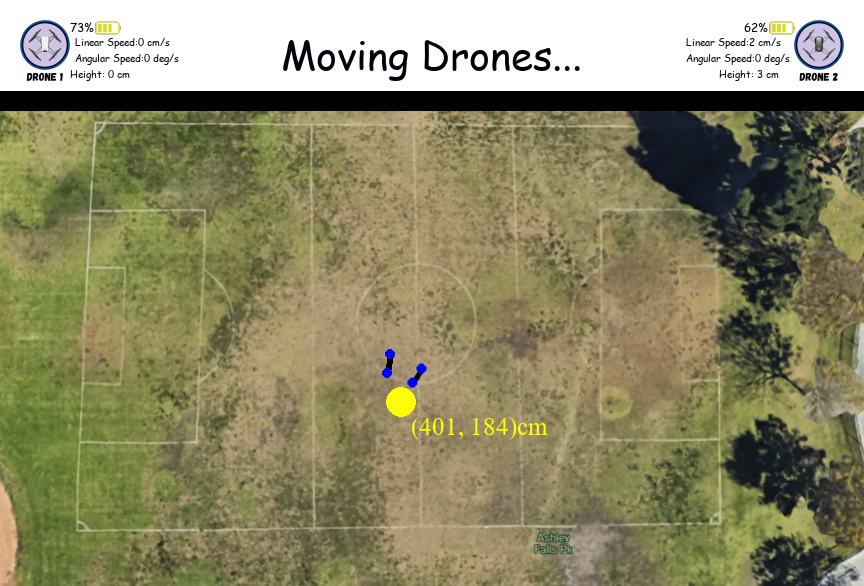
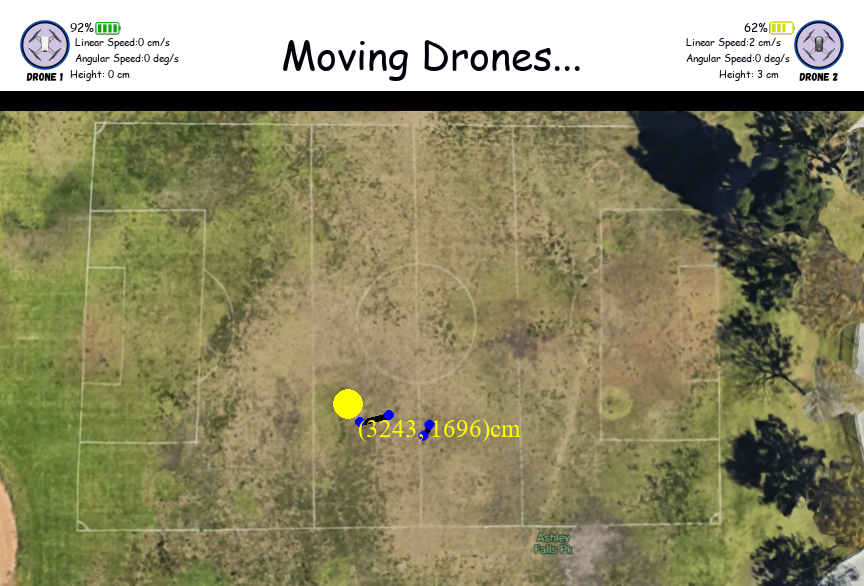
s

Changed region(s): [[0.375, 0.5836, 0.625, 0.7679], [0.0625, 0.0307, 0.1562, 0.0614]]

diff --git a/singledronewmap.py b/singledronewmap.py
@@ -151,13 +151,13 @@ def add_route():
             run_command(f'sudo ip route add {TELLO_IP} via {WIFI_ADAPTER_2_IP} dev wlan1')
 
 # # Connect to Tello networks
-# connect_wifi(WIFI_1, "TELLO-D06F9F")
+connect_wifi(WIFI_1, "TELLO-D06F9F")
 
 # # Assign static IPs
-# set_static_ip(WIFI_1, WIFI_ADAPTER_1_IP)
+set_static_ip(WIFI_1, WIFI_ADAPTER_1_IP)
 
 # # Add route if necessary
-# add_route()
+add_route()
 
 #proxy_server = VideoProxyServer(drone_ips, server_ip, base_port)
 #proxy_server.start_proxy()
@@ -169,6 +169,7 @@ drone1.connect()
 
 
 def updateScreen():
+
     with lock:
         startingyaw1 = 0
         startingyaw2 = 0
@@ -562,7 +563,6 @@ try:
     ##############################
     facing_human = False
     while not facing_human:
-        time.sleep(0.5)
         #CV
         img1 = drone1.get_frame_read().frame
         if img1 is not None:
@@ -576,7 +576,6 @@ try:
                 facing_human = True
                 turn_1 = 0
             drone1.send_rc_control(0, 0, 0, turn_1)
-            time.sleep(0.3)
         else:
             logging.debug("No frame recieved")
 
@@ -643,7 +642,6 @@ try:
             #move drone and update values, already considered if drone terminated
             drone1.send_rc_control(drone_1_movement[0], drone_1_movement[1], go_up, turn_1)
             print(f"Drone 1 Position: {drone_1_pos}, Movement: {drone_1_movement}")
-            time.sleep(0.1)
 
             timer = time.time() #time for keeping track of how much to update drones positions
 

diff --git a/mappingtest.py b/mappingtest.py
@@ -144,8 +144,8 @@ intersection = line_intersection(x1, y1, x2, y2, x3, y3, x4, y4)
 
 if intersection:
     font = pygame.font.SysFont('Times',25)
-    intersectx = (int)((intersection[0])/sizeCoeff)
-    intersecty = (int)((screen_height  - intersection[1])/sizeCoeff)
+    intersectx = (int)((intersection[0])*sizeCoeff)
+    intersecty = (int)((screen_height  - intersection[1])*sizeCoeff)
     position_text = font.render(f'({intersectx}, {intersecty})cm', True, (128, 0, 128))
     screen.blit(position_text, intersection)
     pygame.draw.circle(screen, (128, 0, 128), intersection, 6) #purple dot at intesection 
@@ -182,8 +182,8 @@ def drawPoints(screen, points, droneimg, yaw):
     pygame.draw.circle(screen, (0, 255, 0), points[-1], 3) #green dot on the image for tracking
     
     #adds positional text data, (0,0) is bottom left corner
-    x_cord = (int)((points[-1][0]))
-    y_cord  = (int)((screen_height  - points[-1][1]))
+    x_cord = (int)((points[-1][0])*sizeCoeff)
+    y_cord  = (int)((screen_height  - points[-1][1])*sizeCoeff)
     position_text = font.render(f'({x_cord}, {y_cord})cm', True, (255, 0, 0))
     screen.blit(position_text, (points[-1][0] + 10, points[-1][1] + 10))
 background = Background('pathPlanned2.png', [0, 0], 1)

diff --git a/map.py b/map.py
@@ -28,6 +28,10 @@ class mapStart:
         dot = (ax*bx) + (ay*by) #dot product
         magA = math.sqrt(ax**2 + ay**2)
         magB = math.sqrt(bx**2 + by**2)
+
+        if magA == 0 or magB == 0:
+                    return 0 
+
         rad = math.acos(dot/(magA*magB))
         self.angle = (rad * 360)/(2*math.pi) #convert to degree
 
@@ -111,8 +115,8 @@ class mapStart:
                         personpos.append(pos)
                         pygame.draw.circle(self.screen, (255, 255, 0), pos, 15) #To note where the person is 
                         font = pygame.font.SysFont('Times',25)
-                        intersectx = (int)((posx))
-                        intersecty = (int)((screen_height  - posy))
+                        intersectx = (int)((posx)*sizeCoeff)
+                        intersecty = (int)((screen_height  - posy)*sizeCoeff)
                         position_text = font.render(f'({intersectx}, {intersecty})cm', True, (255, 255, 0))
                         self.screen.blit(position_text, (posx+10, posy+10))
                         running = False
